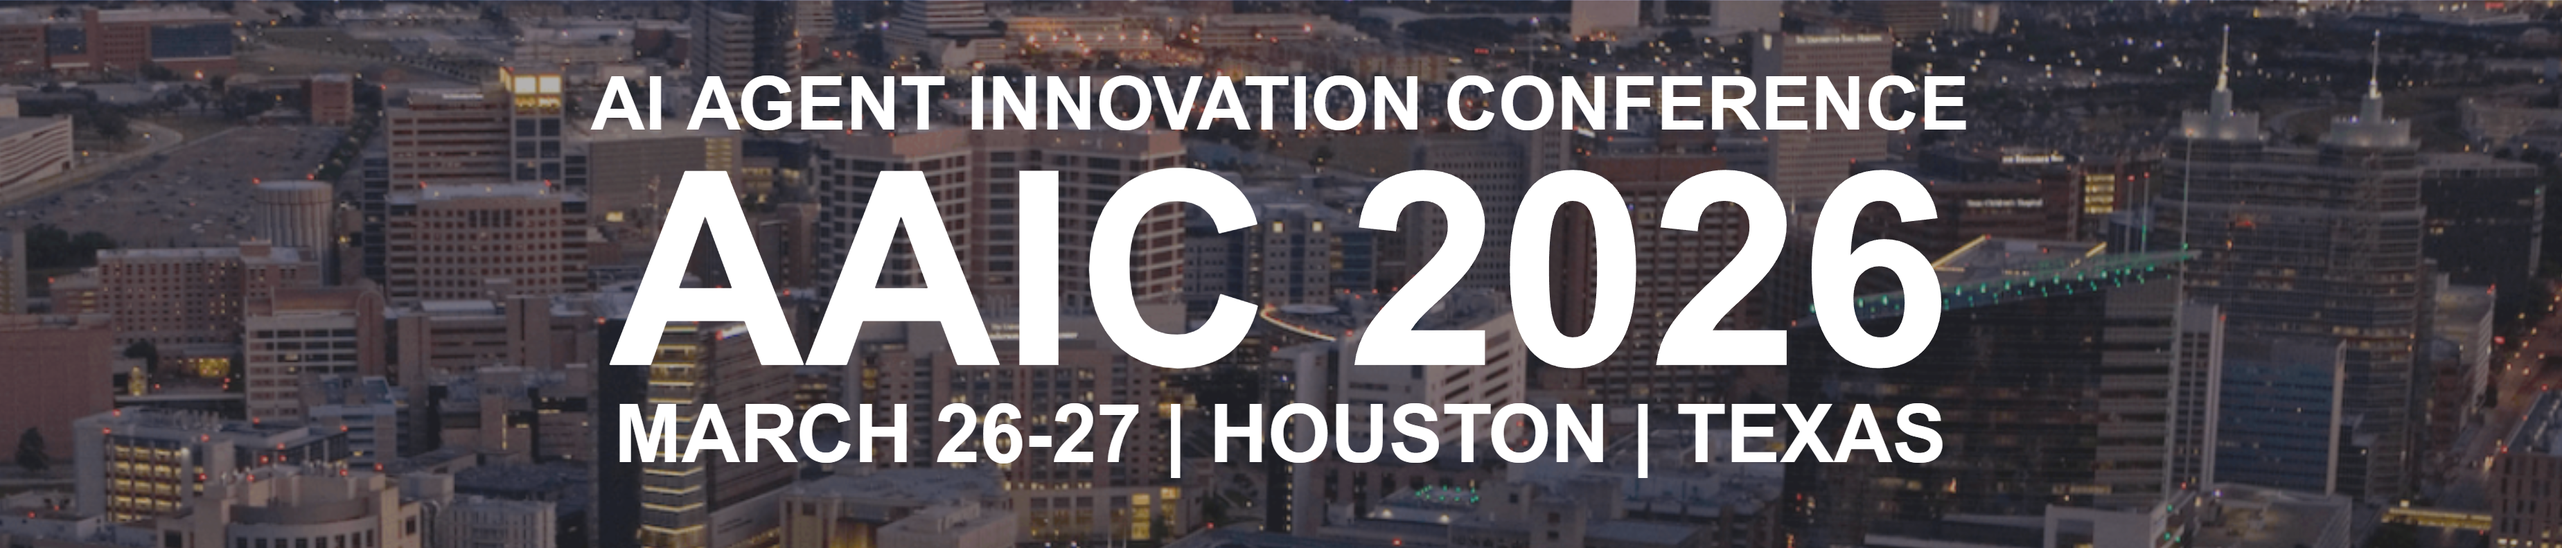
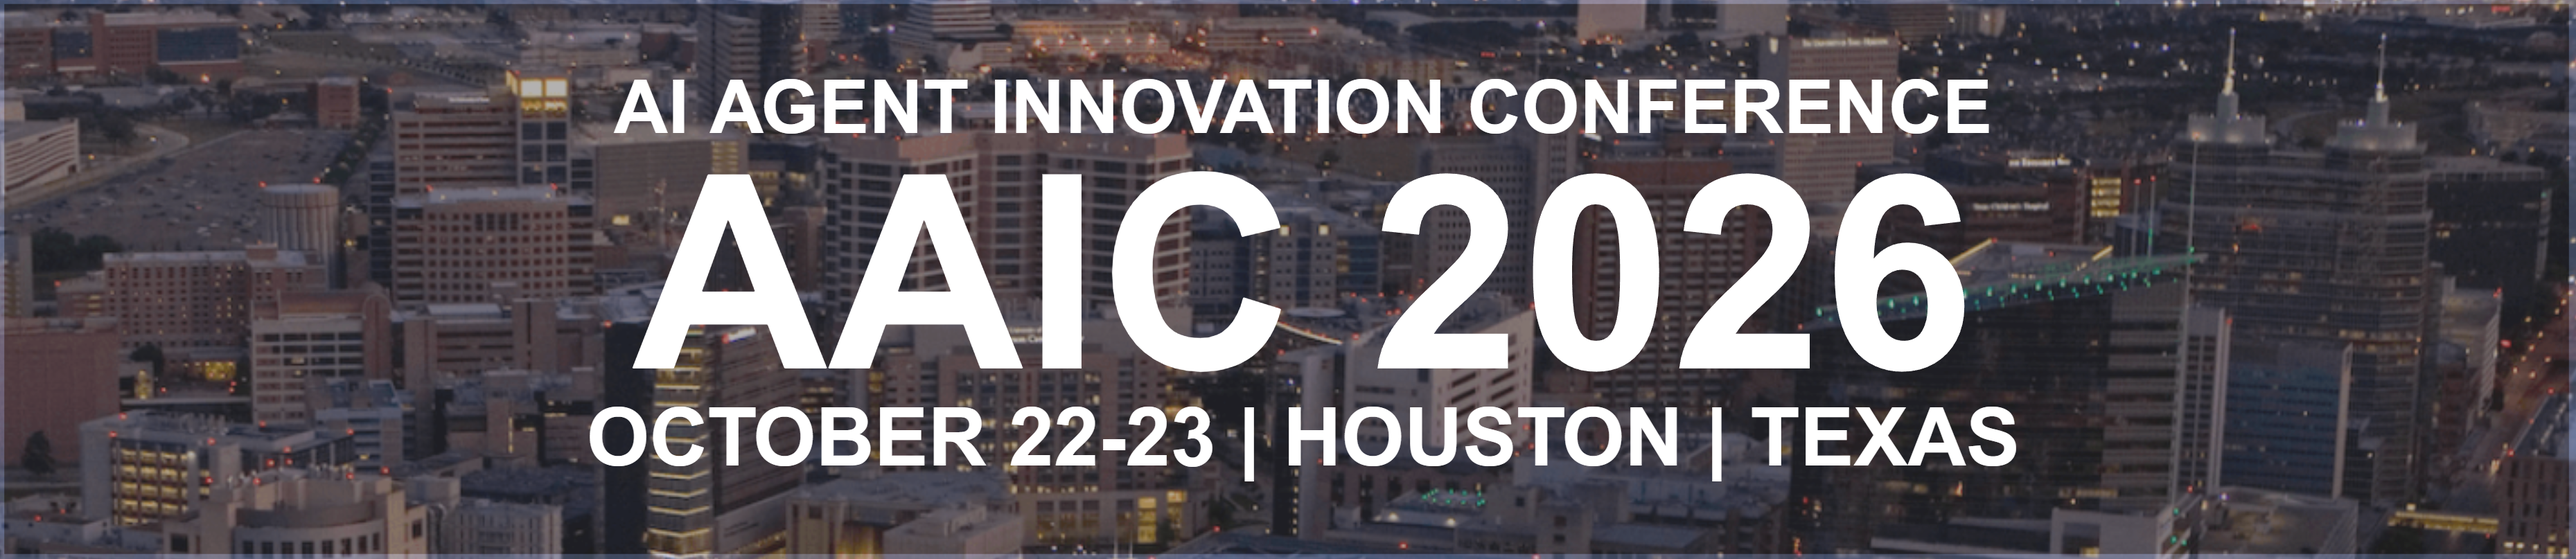
time update

diff --git a/index.html b/index.html
@@ -137,7 +137,7 @@
                     Abstract submission deadline
                 </td>
                 <td style="padding:8px 12px; border-bottom:1px solid #ddd;">
-                    January 31, 2026
+                    August 31, 2026
                 </td>
             </tr>
             <tr>
@@ -145,7 +145,7 @@
                     Conference early registration opens
                 </td>
                 <td style="padding:8px 12px; border-bottom:1px solid #ddd;">
-                    September 1, 2025
+                    April 5, 2026
                 </td>
             </tr>
             <tr>
@@ -153,7 +153,7 @@
                     Conference early registration deadline
                 </td>
                 <td style="padding:8px 12px; border-bottom:1px solid #ddd;">
-                    December 31, 2025
+                    July 31, 2026
                 </td>
             </tr>
             <tr>
@@ -161,7 +161,7 @@
                     Conference standard registration opens
                 </td>
                 <td style="padding:8px 12px; border-bottom:1px solid #ddd;">
-                    January 1, 2026
+                    August 1, 2026
                 </td>
             </tr>
             <tr>
@@ -169,7 +169,7 @@
                     Conference standard registration deadline
                 </td>
                 <td style="padding:8px 12px; border-bottom:1px solid #ddd;">
-                    February 28, 2026
+                    September 30, 2026
                 </td>
             </tr>
             <tr>
@@ -177,7 +177,7 @@
                     AAIC 2026 conference
                 </td>
                 <td style="padding:8px 12px;">
-                    March 26-27, 2026
+                    October 22-23, 2026
                 </td>
             </tr>
         </table>    
